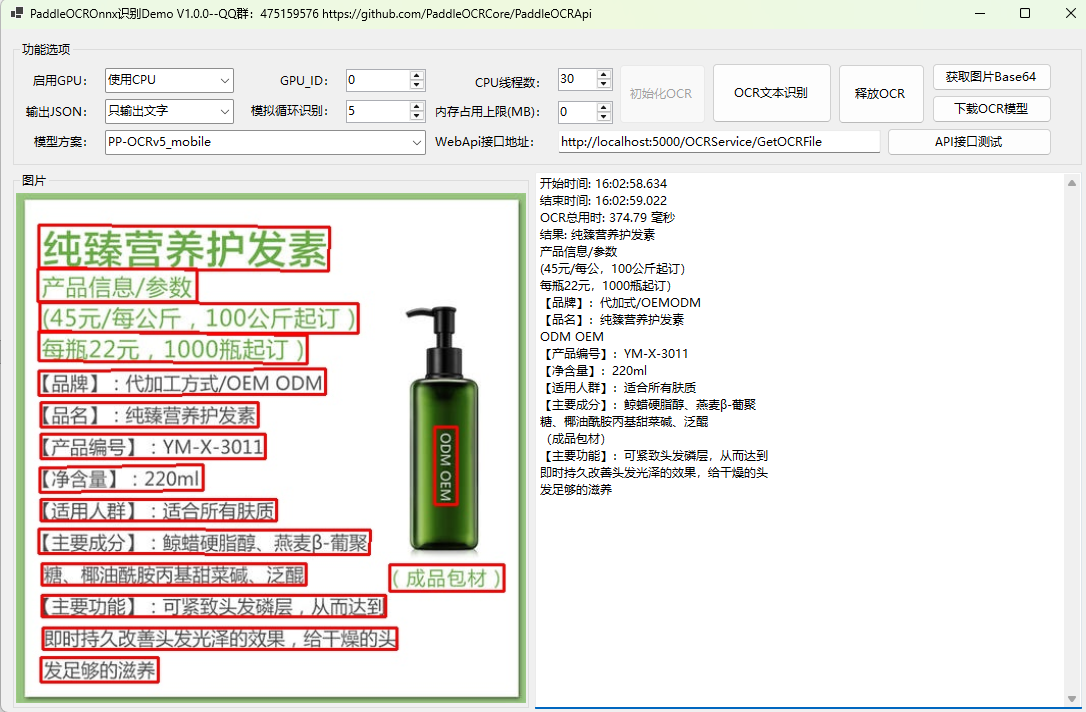
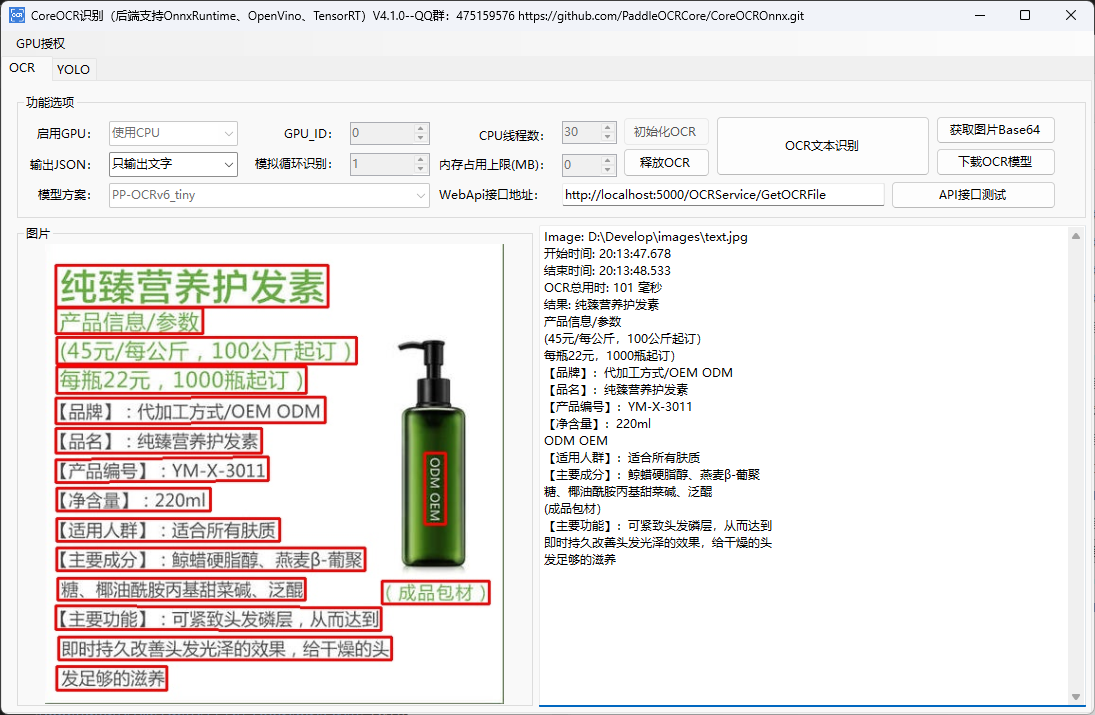
feat:发布4.1.0版本，更新文档

diff --git a/README_EN.md b/README_EN.md
@@ -9,7 +9,7 @@
 
 ## 1. Introduction
 
-CoreOCR is a free, fast, offline OCR component. Choose one of three runtime backends: ONNX Runtime, OpenVINO, or TensorRT. Device support varies by backend: ONNX Runtime and OpenVINO packages can use the CPU or supported GPUs as described in their release notes, while the TensorRT package supports NVIDIA GPUs only. The component supports multithreaded concurrent development in C#, C++, Java, Python, and Go.
+CoreOCR is a free, fast, offline OCR component supporting ONNX Runtime, DirectML, OpenVINO, and TensorRT backends. Platform, device, and licensing requirements vary by backend; an application only needs one runtime package matching its target environment. The component supports multithreaded concurrent development in C#, C++, Java, Python, and Go.
 
 If you find this project useful, please give it a free Star.
 
@@ -23,17 +23,59 @@ YOLO models are also supported.
 
 The project requires Visual Studio 2022 or later and .NET 10.0.
 
-1. The core file, `PaddleOCROnnx.dll`, is a C++ dynamic-link library. Its CPU/GPU capabilities depend on the selected backend runtime package. The TensorRT package supports NVIDIA GPUs on Windows/Linux x64 only.
+1. The core file, `PaddleOCROnnx.dll` (`PaddleOCROnnx.so` on Linux), is a C++ dynamic library. Its CPU/GPU capabilities depend on the selected backend runtime package. The application platform and process architecture must match the runtime package.
 
 ### Runtime Package Downloads
 
-Download one of the following backend runtime packages from GitHub Releases:
+Installing through [NuGet](https://www.nuget.org/packages?q=CoreOCRRuntime) is recommended. A C# application normally needs:
 
-- ONNX Runtime backend: [OCRRuntimeOnnx_v4.0.0.zip](https://github.com/PaddleOCRCore/CoreOCROnnx/releases/download/v4.0.0/OCRRuntimeOnnx_v4.0.0.zip)
-- OpenVINO backend: [OCRRuntimeOpenVino_v4.0.0.zip](https://github.com/PaddleOCRCore/CoreOCROnnx/releases/download/v4.0.0/OCRRuntimeOpenVino_v4.0.0.zip)
-- TensorRT backend: due to its size, download it from Baidu Netdisk: [CoreOCROnnxApi4.1-TensorRT.zip](https://pan.baidu.com/s/1h8tyeGzG0dukzMVDUwPqWQ?pwd=bejk)
+1. `CoreOCROnnx.SDK` for the C# interfaces, data models, and service implementations.
+2. One `CoreOCRRuntime.*` native runtime package matching the target operating system, process architecture, and inference device.
 
-Copy `PaddleOCROnnx.dll` and all dependencies from the same directory in the archive to the C# application output directory. The current release packages target Windows x64, so the C# project must also run as x64.
+> Install only one runtime package per application. These packages contain the same `PaddleOCROnnx.dll` or `PaddleOCROnnx.so` filename, so installing multiple runtimes causes files to overwrite one another. Use separate project configurations or publish directories when distributing multiple backends.
+
+For example, a Windows x64 CPU project can use:
+
+```bash
+dotnet add package CoreOCROnnx.SDK
+dotnet add package CoreOCRRuntime.Onnx.CPU.win-x64
+```
+
+This repository already references `CoreOCROnnx.SDK` as a source project. The Web API project therefore only needs one desired `CoreOCRRuntime.*` package reference.
+
+#### Runtime Packages
+
+| NuGet package | Platform/architecture | Inference device | Main model formats | License requirement |
+| --- | --- | --- | --- | --- |
+| `CoreOCRRuntime.Onnx.CPU.win-x86` | Windows x86 | CPU | `.onnx` | Not required |
+| `CoreOCRRuntime.Onnx.CPU.win-x64` | Windows x64 | CPU | `.onnx` | Not required |
+| `CoreOCRRuntime.Onnx.CPU.linux-x64` | Linux x64 | CPU | `.onnx` | Required |
+| `CoreOCRRuntime.DirectML.win-x86` | Windows x86 | DirectML GPU; CPU is also available | `.onnx` | Not required for CPU; required for GPU |
+| `CoreOCRRuntime.DirectML.win-x64` | Windows x64 | DirectML GPU; CPU is also available | `.onnx` | Not required for CPU; required for GPU |
+| `CoreOCRRuntime.OpenVino.CPU.win-x64` | Windows x64 | CPU | `.onnx`, `.xml` + `.bin` | Not required |
+| `CoreOCRRuntime.OpenVino.GPU.win-x64` | Windows x64 | Intel GPU; also includes the CPU plugin | `.onnx`, `.xml` + `.bin` | Not required for CPU; required for GPU |
+| `CoreOCRRuntime.TensorRT.GPU.win-x64` | Windows x64 | NVIDIA GPU | `.onnx`, `.engine`, `.plan` | GPU license required |
+| `CoreOCRRuntime.TensorRT.GPU.linux-x64` | Linux x64 | NVIDIA GPU | `.onnx`, `.engine`, `.plan` | GPU license required |
+
+Selection guide:
+
+- For general CPU deployments or minimal external dependencies, choose the ONNX Runtime CPU package for the target platform.
+- For AMD, Intel, or NVIDIA GPUs on Windows, choose DirectML.
+- For Intel CPUs or Intel GPUs on Windows, choose the corresponding OpenVINO package.
+- For maximum performance on NVIDIA GPUs on Windows or Linux, choose TensorRT.
+
+Runtime packages include PP-OCRv6 ONNX sample models, recognition dictionaries, and related resources. These files are placed in the application output after installation or publishing. Windows packages also provide a license request-code utility; on Linux, obtain the request code through the SDK's `GetLicenseRequestCode()` method. You may replace the sample models with your own compatible models; keep every model and dictionary used by the deployed application.
+
+#### Licensing and Native Dependencies
+
+- Windows CPU mode is free and does not require license activation.
+- Windows GPU modes (DirectML, OpenVINO GPU, and TensorRT) require a license that permits GPU use.
+- Linux requires license activation for both CPU and GPU use. NuGet packages do not include an activated commercial license.
+- When a license is required, generate the request code on the final deployment machine and apply for a license matching that machine, platform, and product version at [CoreOCR Online Licensing](http://ocr.axinw.com).
+- DirectML and OpenVINO dependencies are copied by their runtime packages. Do not deploy only `PaddleOCROnnx.dll`.
+- TensorRT runtime packages do not include NVIDIA TensorRT, CUDA, or a graphics driver. Install TensorRT 11.1, CUDA 12.9 Runtime, and a compatible NVIDIA driver on the target machine.
+
+For manual native-library deployment, download the matching version from [GitHub Releases](https://github.com/PaddleOCRCore/CoreOCROnnx/releases). Copy the complete dependency set from the archive, and never mix files from different backends or architectures.
 
 ### [Web API Documentation](./CoreOCROnnx.WebApi/README.md)
 
@@ -67,6 +109,61 @@ After deployment, the Web API can be called by frontend applications.
 | visualize | false | Visualize results. When `true`, annotated images are saved under the `output` directory using the input image names. |
 | enable_log | false | Write logs to files under the `log` directory. |
 | isOutputConsole | true | Write logs to the console. |
+
+### YoloInitJson Parameters
+
+`YoloInitJson` initializes a YOLO model from a JSON parameter string. Complete `parameterjson` example:
+
+```json
+{
+    "model_type": 1,
+    "input_width": 640,
+    "input_height": 640,
+    "confidence_threshold": 0.25,
+    "point_score_threshold": 0.25,
+    "iou_threshold": 0.45,
+    "enable_nms": false,
+    "key_points_num": 17,
+    "num_threads": 4,
+    "use_gpu": false,
+    "gpu_id": 0,
+    "warmup": true,
+    "visualize": false,
+    "enable_log": false,
+    "class_names_preset": "auto",
+    "class_names": ["person", "car"],
+    "class_names_file": "coco.names"
+}
+```
+
+| Parameter | Example | Description |
+| --- | --- | --- |
+| `model_type` | `1` | Model type: `1`=detect, `2`=pose, `3`=classification, `4`=detect FP16, `5`=pose FP16, `6`=classification FP16, `7`=seg, `8`=obb, `9`=seg FP16, and `10`=obb FP16. |
+| `input_width` / `input_height` | `640` | Model input dimensions. Fixed dimensions can be read automatically from an ONNX model; dynamic dimensions default to 640 when omitted. |
+| `confidence_threshold` | `0.25` | Object or class confidence threshold. Candidates below this value are filtered out. |
+| `point_score_threshold` | `0.25` | Pose keypoint drawing threshold. Keypoints and skeleton lines below this value are not drawn. |
+| `iou_threshold` | `0.45` | Overlapping-box threshold for NMS. It applies only when `enable_nms=true`. |
+| `enable_nms` | `false` | Enable NMS. The default is `false`. When disabled, detection results are not filtered by overlap; raw Tensor API output is unaffected. |
+| `key_points_num` | `17` | Number of keypoints in a pose model. COCO human-pose models normally use 17. |
+| `num_threads` | `4` | Number of CPU inference threads. The default is 1. |
+| `use_gpu` | `false` | Use a GPU or accelerated backend. The license must permit it, and the corresponding backend build is required. TensorRT always uses a GPU. |
+| `gpu_id` | `0` | GPU device ID. The default is 0. |
+| `warmup` | `true` | Run one warm-up inference after initialization. The default is `true`. |
+| `visualize` | `false` | Save visualized images under `output`. JSON APIs return `vis_path`; Tensor APIs perform visualization only as a side effect. |
+| `enable_log` | `false` | Write YOLO runtime logs to the console. |
+| `class_names_preset` | `"auto"` | Class-name preset: `auto` selects names based on the model task, while `none` disables preset class names. |
+| `class_names` | `["person", "car"]` | Class names supplied as a JSON array or a comma/newline-delimited string. This takes precedence over `class_names_preset`. |
+| `class_names_file` | `"coco.names"` | Path to a class-name file containing one name per line. When set, it overrides `class_names`. |
+
+API declaration:
+
+```cpp
+Paddle_API bool CALL_CONV YoloInitJson(const char* modelPath, const char* parameterjson);
+```
+
+- `modelPath`: path to a YOLO ONNX model. Formats supported by the selected OpenVINO or TensorRT backend may also be used.
+- `parameterjson`: YOLO initialization parameters as a JSON string.
+- Return value: `true` on success or `false` on failure. Call `GetError` for error details.
 
 ## 4. OpenVINO Backend
 
@@ -222,7 +319,8 @@ A TensorRT engine depends on the TensorRT version, operating system, GPU archite
 
 | Backend | Device | Common model formats | Behavior when `use_gpu=false` |
 | ------- | ------ | -------------------- | ----------------------------- |
-| ONNX Runtime | Depends on the release package and execution provider | `.onnx` | Can use the CPU |
+| ONNX Runtime CPU | CPU | `.onnx` | Uses the CPU |
+| DirectML | AMD/Intel/NVIDIA GPU on Windows; CPU is also available | `.onnx` | Uses the CPU |
 | OpenVINO | CPU or Intel GPU, depending on installed plugins | `.onnx`, `.xml` + `.bin` | Uses the CPU |
 | TensorRT | NVIDIA GPU only | `.onnx`, `.engine`, `.plan` | Still uses the NVIDIA GPU |
 
@@ -240,9 +338,9 @@ If this project has helped you, scan the QR code below to buy the author a coffe
 
 ## Changelog
 
-### v4.1.0 `2026.7.12`
+### v4.1.0 `2026.7.15`
 
-- Added TensorRT backend support. Join the QQ group to download the runtime.
+- Added TensorRT backend support.
 
 ### v4.0.0 `2026.6.7`
 
